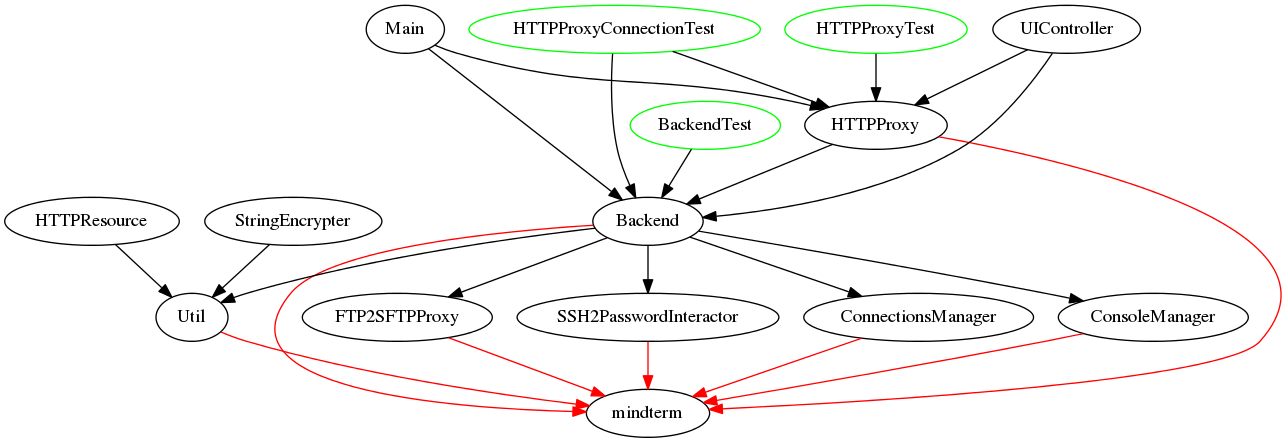
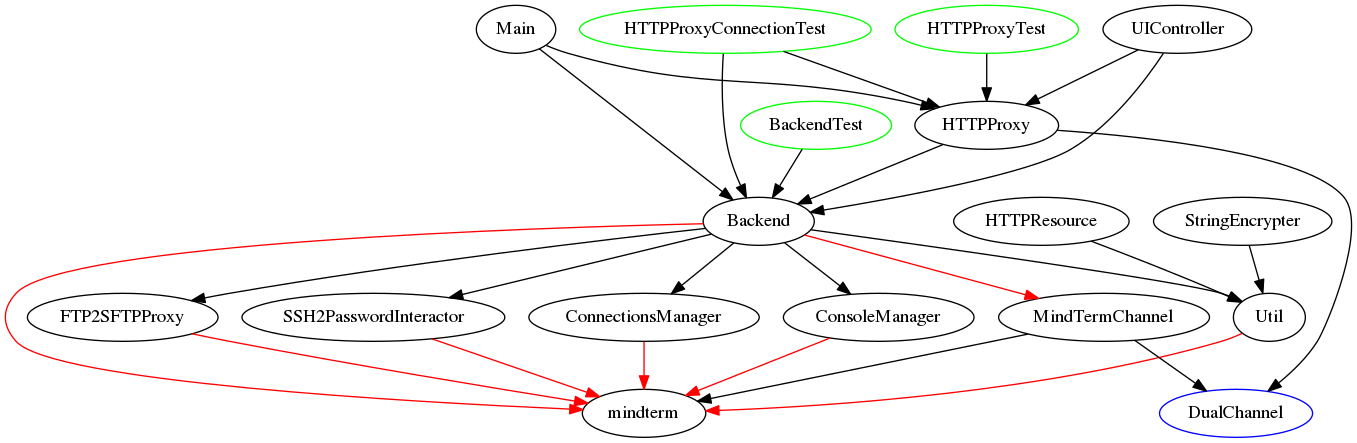
Update doc #57

diff --git a/doc/mindterm.md b/doc/mindterm.md
@@ -1,4 +1,4 @@
-SSH backend migration plan
+SSH backend migration plan #57
 ===
 
 Currently, we have following classes that depend on `mindterm` library:
@@ -7,7 +7,7 @@ Currently, we have following classes that depend on `mindterm` library:
 
 Refactoring should move along with the plan:
 
- - [ ] remove dependency from `HTTPProxy` class
+ - [x] remove dependency from `HTTPProxy` class
  - [ ] remove dependency from `Util` class
  - [ ] extract interface from `Backend` class
  - [ ] use new interface everywhere
